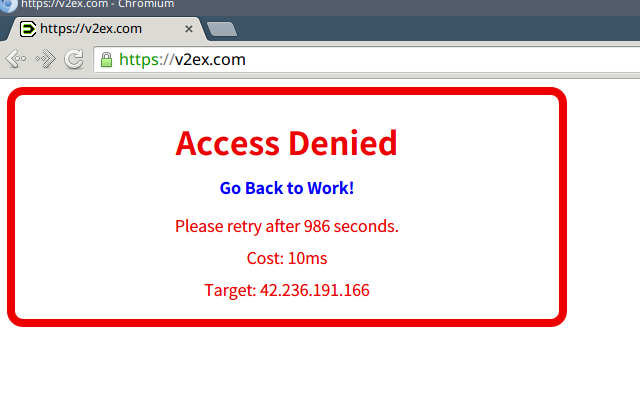
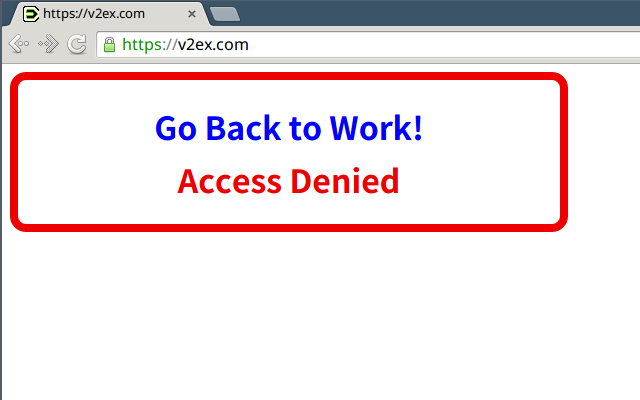
remove all console.log and change access_denied page

diff --git a/eventPage.js b/eventPage.js
@@ -8,7 +8,7 @@ function getLink(url) {
 function requestV2EX(protocol,host, next) {
     var x = new XMLHttpRequest();
     var requestUrl = protocol + '//' + host + '/?timestamp=' + Date.now();
-    console.log('Requesting...', requestUrl);
+    //console.log('Requesting...', requestUrl);
     x.open('GET', requestUrl);
     x.onload = function() {
         var response = x.response;
@@ -31,7 +31,7 @@ function ddosV2EX(protocol, host, count){
         if(denied_flag === false){
             for(var i=0;i<count;i++){
                 if(ACCESS_DENIED === false){
-                    console.log('DDOS: ', i);
+                    //console.log('DDOS: ', i);
                     requestV2EX(protocol, host);
                 }
             }
@@ -45,10 +45,10 @@ function blockV2EX(protocol, host){
 function checkIn(protocol, host){
     chrome.storage.local.get('checkInTime', function(item){
         if(item.checkInTime !== 0){
-            console.log('already checked in.');
+            //console.log('already checked in.');
         }else{
             chrome.storage.local.set({'checkInTime': Date.now()});
-            console.log('checkIng in.... ');
+            //console.log('checkIng in.... ');
         }
     });
     //check if we should block v2ex
@@ -67,9 +67,9 @@ function checkIn(protocol, host){
                     chrome.storage.local.set({'quota' : 2});                    
                 }
                 if(quota * 60 * 60 > lastTotalSeconds){
-                    console.log('Everything is fine, no need to block', 'quota:' , quota , 'spended hour:' , lastTotalSeconds / 60 /60);
+                    //console.log('Everything is fine, no need to block', 'quota:' , quota , 'spended hour:' , lastTotalSeconds / 60 /60);
                 }else{
-                    console.log('No....young man...', quota , 'spended hour:' , lastTotalSeconds / 60 /60);
+                    //console.log('No....young man...', quota , 'spended hour:' , lastTotalSeconds / 60 /60);
                     blockV2EX(protocol, host);
                 }
             });
@@ -81,7 +81,7 @@ function checkOut(){
         if(item.checkInTime !== 0){
             //caculate seconds spended on V2EX this time.
             var spendedSeconds = (Date.now() - item.checkInTime)/1000;
-            console.log('checkIng OUT.... ', ' Seconds: ', spendedSeconds);
+            //console.log('checkIng OUT.... ', ' Seconds: ', spendedSeconds);
             chrome.storage.local.set({'checkInTime': 0});
             //caculate todays total seconds on V2EX
             var today = new Date().toJSON().slice(0,10);
@@ -94,29 +94,33 @@ function checkOut(){
                 }
                 var totalSeconds = spendedSeconds + lastTotalSeconds;
                 chrome.storage.local.set({'timeSpended': {'spendedSeconds' : totalSeconds, 'date' : today}});
-                console.log('Today, spended: ', totalSeconds);
+                //console.log('Today, spended: ', totalSeconds);
             });
         }else{
-            console.log('not checked in.');
+            //console.log('not checked in.');
         }
     });
 }
 function checkTab(tabId){
     if(tabId){
-        chrome.tabs.get(tabId,function(tab){
-            if(tab){
-                var link = getLink(tab.url);
-                var host = link.host;
-                var protocol = link.protocol;
-                console.log(host);
-                if(host.indexOf('v2ex.com') !== -1){
-                    //ddosV2EX(protocol, host, 100);
-                    checkIn(protocol, host);
-                }else{
-                    checkOut();
+        try{
+            chrome.tabs.get(tabId,function(tab){
+                if(tab){
+                    var link = getLink(tab.url);
+                    var host = link.host;
+                    var protocol = link.protocol;
+                    //console.log(host);
+                    if(host.indexOf('v2ex.com') !== -1){
+                        //ddosV2EX(protocol, host, 100);
+                        checkIn(protocol, host);
+                    }else{
+                        checkOut();
+                    }
                 }
-            }
-        });
+            });
+        }catch(ex){
+            //console.log(ex);
+        }
     }
 }
 

diff --git a/content_script.js b/content_script.js
@@ -1,16 +1,22 @@
 document.body.style.color="rgb(238, 0, 0)";
 document.body.style.width="50%";
-document.body.style.height="10em";
+document.body.style.height="5em";
 document.body.style.border="0.5em solid rgb(238, 0, 0)";
 document.body.style.padding="2em";
 document.body.style.textAlign="center";
 document.body.style.borderRadius="1em";
 if(document.body.innerText.indexOf('Go Back to Work!') === -1){
-    var msg = document.createElement('h4');
+    var msg = document.createElement('h1');
     msg.innerHTML='Go Back to Work!';
     msg.style.color='blue';
-    var p = document.body.getElementsByTagName('p')[0];
-    document.body.insertBefore(msg,p);
+    var h1 = document.body.getElementsByTagName('h1')[0];
+    document.body.insertBefore(msg,h1);
+    var p = true;
+    while(p){
+        p = document.getElementsByTagName('p')[0];
+        if(p){p.remove();}
+    }
 }else if(document.body.innerText.indexOf('V2EX') !== -1){
+    document.write('reloading...');
     location.reload();
 }

diff --git a/popup.js b/popup.js
@@ -5,7 +5,12 @@ function addPageEvent(){
         chrome.storage.local.set({'quota' : quota},function(){
             window.close();
         });
-    });;
+    });
+    document.getElementById('quotaInput').addEventListener('keydown', function(){
+        if(event.keyCode == 13){
+            document.getElementById('okButton').click();
+        }
+    });
 }
 function onInit() {
     chrome.storage.local.get('quota',function(quotaItem){
@@ -15,7 +20,9 @@ function onInit() {
         }else{
             chrome.storage.local.set({'quota' : 2});
         }
-        document.getElementsByTagName('input')[0].value = quota;
+        document.getElementById('quotaInput').value = quota;
+        document.getElementById('quotaInput').select();
+        document.getElementById('quotaInput').focus();
         addPageEvent();
     });
 }

diff --git a/popup.html b/popup.html
@@ -33,7 +33,8 @@ value "popup.html".
     </head>
     <body>
         <div class="container">
-            Daily Quota (hour): <input id="quotaInput" type="text"> <button id="okButton">OK</button>
+            Daily Quota (hour): <input id="quotaInput" type="text">
+            <button id="okButton">OK</button>
         </div>
     </body>
 </html>
